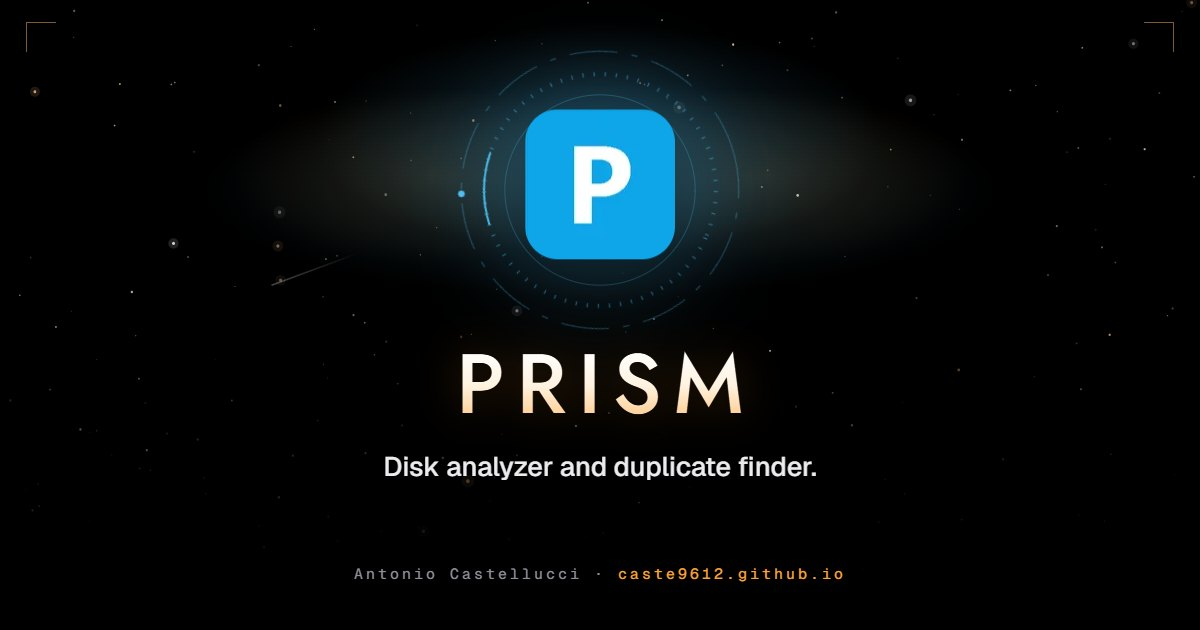
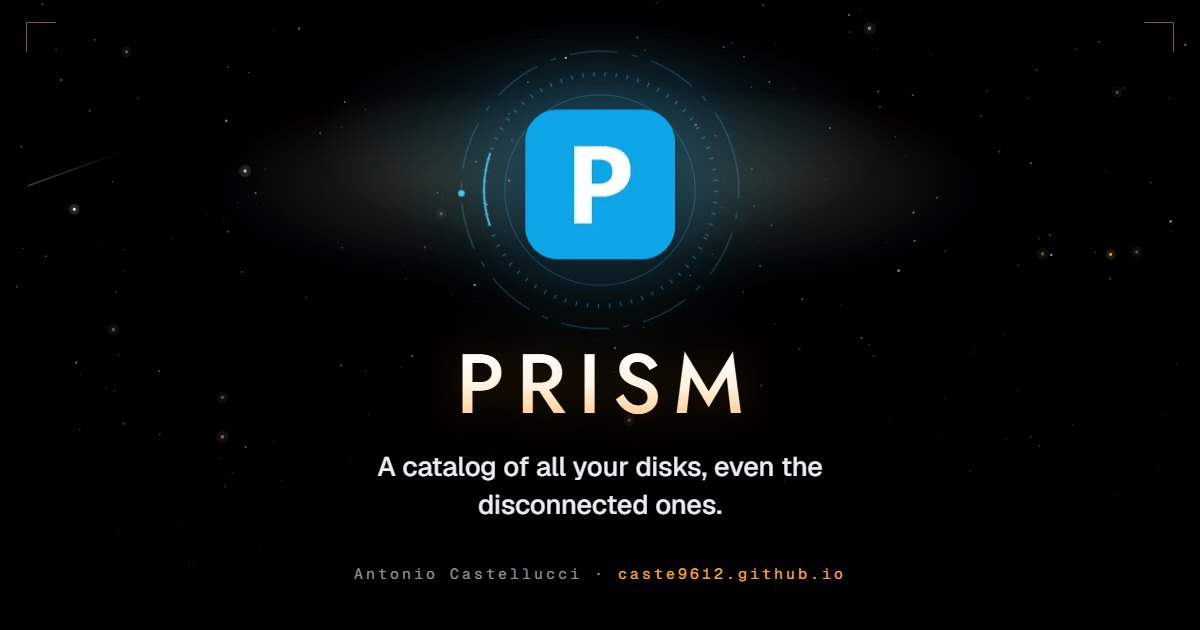
Prism 2.0: a catalog of all your disks
Prism's page follows the 2.0 release, rewritten from scratch: a catalog of
every disk, kept when the disk is unplugged and read through the NTFS Master
File Table, search with Ctrl+Space across all disks, space and cleanup,
exact and similar duplicates (photos and videos), backup checks with
verified copies and disk health from SMART. The requirements now say
installer for all users, run as administrator, start with Windows, signed
updates and the SmartScreen prompt; the details show the installer size.

The screenshots of 1.0.1 go, since that interface is gone; the ones of 2.0
come with Prism's README, which is being redrawn. The preview image of the
page has the new tagline, and scripts/og.mjs can now redraw single pages.
The README says where the demo data of every screenshot comes from.

Changed region(s): [[0.3083, 0.7238, 0.7092, 0.8143]]

diff --git a/src/data/projects.ts b/src/data/projects.ts
@@ -13,9 +13,6 @@ import pulseIcon from '../assets/projects/pulse/icon.png';
 import pulseDark from '../assets/projects/pulse/dark.webp';
 import pulseLight from '../assets/projects/pulse/light.webp';
 import prismIcon from '../assets/projects/prism/icon.png';
-import prismDashboard from '../assets/projects/prism/dashboard.webp';
-import prismSearch from '../assets/projects/prism/search.webp';
-import prismBackup from '../assets/projects/prism/backup.webp';
 import argusIcon from '../assets/projects/argus/icon.svg';
 import argusMetrics from '../assets/projects/argus/metrics.webp';
 import argusFlame from '../assets/projects/argus/flame.webp';
@@ -360,116 +357,95 @@ export const projects: Project[] = [
     color: '#4fc3f7',
     icon: prismIcon,
     squareIcon: true,
-    platform: { en: 'Windows', it: 'Windows' },
+    platform: { en: 'Windows 11', it: 'Windows 11' },
     downloadFor: { en: 'Windows', it: 'Windows' },
-    tagline: { en: 'Disk analyzer and duplicate finder.', it: 'Analisi dei dischi e ricerca dei duplicati.' },
-    short: { en: 'Disk analyzer', it: 'Analisi dei dischi' },
+    tagline: {
+      en: 'A catalog of all your disks, even the disconnected ones.',
+      it: 'Un catalogo di tutti i tuoi dischi, anche di quelli scollegati.',
+    },
+    short: { en: 'Disk catalog', it: 'Catalogo dei dischi' },
     need: {
-      en: 'Seeing where the space goes, and whether the backups are complete.',
-      it: 'Capire dove va lo spazio e se i backup sono completi.',
+      en: 'Finding files on disks that are not connected, and knowing what is on each one.',
+      it: "Ritrovare i file anche sui dischi scollegati, e sapere cosa c'è su ognuno.",
     },
     problem: {
-      en: "With many drives, local and on the network, I didn't know where the space went, which files were duplicates and whether a backup really held everything.",
-      it: 'Con molti dischi, locali e di rete, non sapevo dove finiva lo spazio, quali file erano doppi e se un backup conteneva davvero tutto.',
+      en: "With many drives, internal, external and on the network, I didn't know which one held a file, where the space went, which files were duplicates and whether a backup really held everything.",
+      it: 'Con molti dischi, interni, esterni e di rete, non sapevo quale contenesse un file, dove finiva lo spazio, quali file erano doppi e se un backup conteneva davvero tutto.',
     },
     solution: {
-      en: 'It indexes the drives once and then only what changes. It shows the space as a treemap, finds duplicates by content and compares a drive with its backup, listing what is missing.',
-      it: 'Indicizza i dischi una volta e poi solo i cambiamenti. Mostra lo spazio come treemap, trova i duplicati per contenuto e confronta un disco con il suo backup, elencando cosa manca.',
+      en: 'It keeps a catalog of every disk, searchable even when the disk is unplugged. On top of it, it shows the space, finds exact and similar duplicates, checks backups and watches the health of the disks.',
+      it: 'Tiene un catalogo di ogni disco, in cui si cerca anche quando il disco è scollegato. Sopra il catalogo mostra lo spazio, trova i duplicati identici e simili, verifica i backup e controlla la salute dei dischi.',
     },
     intro: {
-      en: 'Prism indexes local and network drives, finds duplicate files, shows space usage as a treemap and checks whether a backup drive contains everything.',
-      it: 'Prism indicizza dischi locali e di rete, trova i file duplicati, mostra lo spazio occupato come treemap e verifica se un disco di backup contiene tutto.',
+      en: 'Prism indexes every drive, internal, external, USB sticks and network shares, and keeps the catalog when the drive is unplugged. On top of the catalog it offers search as you type, space analysis, exact and similar duplicates, backup checks and disk health.',
+      it: "Prism indicizza ogni disco, interno, esterno, chiavetta USB o cartella di rete, e ne tiene il catalogo anche quando il disco è scollegato. Sopra il catalogo offre la ricerca mentre scrivi, l'analisi dello spazio, i duplicati identici e simili, la verifica dei backup e la salute dei dischi.",
     },
     features: [
       {
-        glyph: 'scan',
-        title: { en: 'Scanning', it: 'Scansione' },
+        glyph: 'drive',
+        title: { en: 'Catalog', it: 'Catalogo' },
         text: {
-          en: 'Parallel scanning of local and network drives; after the first pass only changed files are read again.',
-          it: 'Scansione in parallelo di dischi locali e di rete; dopo la prima passata vengono riletti solo i file cambiati.',
+          en: 'Every disk you connect is indexed in the background, NTFS volumes through the Master File Table: about a million files in a few seconds. Disconnected disks stay in the catalog, recognised even when their letter changes.',
+          it: 'Ogni disco collegato viene indicizzato in background, i volumi NTFS tramite la Master File Table: circa un milione di file in pochi secondi. I dischi scollegati restano nel catalogo, riconosciuti anche se cambiano lettera.',
         },
       },
       {
         glyph: 'search',
         title: { en: 'Search', it: 'Ricerca' },
         text: {
-          en: 'Full-text search over the index with filters for size, extension, type and path, also from a global shortcut (Ctrl+Space).',
-          it: "Ricerca nell'indice con filtri per dimensione, estensione, tipo e percorso, anche da una scorciatoia globale (Ctrl+Spazio).",
-        },
-      },
-      {
-        glyph: 'copy',
-        title: { en: 'Duplicates', it: 'Duplicati' },
-        text: {
-          en: 'Duplicate files found by content hash (BLAKE3) and similar images by perceptual hash, with the space wasted by each group.',
-          it: 'File duplicati trovati per hash del contenuto (BLAKE3) e immagini simili per hash percettivo, con lo spazio sprecato da ogni gruppo.',
+          en: 'Ctrl+Space from anywhere searches all the disks, connected or not, as you type, with filters for type, size, date and disk (report size:>1MB ext:pdf).',
+          it: 'Ctrl+Spazio da qualsiasi punto cerca in tutti i dischi, collegati o no, mentre scrivi, con filtri per tipo, dimensione, data e disco (report size:>1MB ext:pdf).',
         },
       },
       {
         glyph: 'treemap',
-        title: { en: 'Space usage', it: 'Spazio occupato' },
+        title: { en: 'Space and cleanup', it: 'Spazio e pulizia' },
         text: {
-          en: 'Folder tree and interactive treemap of the space in use, with the distribution by file type.',
-          it: 'Albero delle cartelle e treemap interattiva dello spazio occupato, con la distribuzione per tipo di file.',
+          en: 'A map of what takes space on a disk or folder, the largest files and statistics by type, also for disconnected disks, and from Explorer with Analyze with Prism. Space to recover is removed only after a confirmation.',
+          it: "Una mappa di cosa occupa spazio in un disco o in una cartella, i file più grandi e le statistiche per tipo, anche per i dischi scollegati, e da Explorer con Analyze with Prism. Lo spazio da recuperare si libera solo dopo una conferma.",
+        },
+      },
+      {
+        glyph: 'copy',
+        title: { en: 'Duplicates and similar', it: 'Duplicati e simili' },
+        text: {
+          en: 'Identical files across all the disks, found by content in the background at low priority, and photos and videos that look the same even when resized or re-encoded. Copies go to the Recycle Bin, after a check that they have not changed.',
+          it: 'File identici in tutti i dischi, trovati per contenuto in background a bassa priorità, e foto e video che si somigliano anche se ridimensionati o ricodificati. Le copie vanno nel Cestino, dopo un controllo che non siano cambiate.',
         },
       },
       {
         glyph: 'shield',
-        title: { en: 'Backup check', it: 'Verifica dei backup' },
+        title: { en: 'Backup', it: 'Backup' },
         text: {
-          en: 'Checks whether every file on one drive is also on another, and lists what is missing grouped by folder.',
-          it: 'Controlla se ogni file di un disco si trova anche su un altro ed elenca quelli mancanti raggruppati per cartella.',
+          en: 'Checks that the files of a disk or folder have a copy somewhere else, compares two disks or folders and copies what is missing, reading every copy back to verify it.',
+          it: "Verifica che i file di un disco o di una cartella abbiano una copia altrove, confronta due dischi o cartelle e copia ciò che manca, rileggendo ogni copia per verificarla.",
         },
       },
       {
-        glyph: 'drive',
-        title: { en: 'Drive monitor', it: 'Controllo dei dischi' },
+        glyph: 'chart',
+        title: { en: 'Disk health', it: 'Salute dei dischi' },
         text: {
-          en: 'Notices when drives go online or offline and queues the known ones for a new scan when they come back.',
-          it: 'Si accorge quando i dischi si collegano o si scollegano e rimette in coda per la scansione quelli già noti quando tornano.',
+          en: 'The SMART data of the disks, temperature, wear and errors, with their history and a notice when a disk gets worse.',
+          it: 'I dati SMART dei dischi, temperatura, usura ed errori, con il loro storico e un avviso quando un disco peggiora.',
         },
       },
     ],
     requirements: [
       {
-        en: 'Windows. Prism is portable: download Prism.exe and run it, no installation needed.',
-        it: 'Windows. Prism è portatile: si scarica Prism.exe e si avvia, senza installazione.',
+        en: 'Windows 11, 64-bit, installed for all users. Prism runs as administrator, to read the Master File Table and the change journal of NTFS disks and their health data, and starts with Windows in the notification area; this can be turned off in Settings. The installer is not code-signed yet, so Windows SmartScreen asks for a confirmation.',
+        it: "Windows 11 a 64 bit, installato per tutti gli utenti. Prism gira come amministratore, per leggere la Master File Table e il journal dei dischi NTFS e i loro dati di salute, e parte con Windows nell'area di notifica; si può disattivare nelle impostazioni. L'installer non è ancora firmato, quindi Windows SmartScreen chiede una conferma.",
       },
       {
-        en: "The index is kept in a local SQLite database in the user's application data.",
-        it: "L'indice è salvato in un database SQLite locale, nei dati dell'applicazione dell'utente.",
+        en: 'New versions are downloaded in the background, checked against their signature and installed only when you choose. No telemetry: the catalog stays on your PC. The interface is in English and Italian, with a light and a dark theme.',
+        it: "Le versioni nuove si scaricano in background, vengono verificate con la loro firma e si installano solo quando lo scegli. Nessuna telemetria: il catalogo resta sul tuo PC. L'interfaccia è in inglese e in italiano, con un tema chiaro e uno scuro.",
       },
     ],
-    stack: ['Rust', 'Tauri 2', 'SvelteKit', 'TypeScript', 'SQLite FTS5', 'D3.js', 'BLAKE3'],
+    stack: ['Rust', 'Tauri 2', 'Svelte 5', 'TypeScript', 'SQLite', 'BLAKE3', 'NTFS MFT and USN', 'Media Foundation'],
     statedLicense: 'MIT',
-    shots: [
-      {
-        src: prismDashboard,
-        caption: { en: 'Dashboard', it: 'Pannello principale' },
-        alt: {
-          en: "Prism's dashboard with the indexed drives and the scan progress",
-          it: "Il pannello di Prism con i dischi indicizzati e l'avanzamento della scansione",
-        },
-      },
-      {
-        src: prismSearch,
-        caption: { en: 'Quick search', it: 'Ricerca rapida' },
-        alt: {
-          en: "Prism's quick search with file type filters",
-          it: 'La ricerca rapida di Prism con i filtri per tipo di file',
-        },
-      },
-      {
-        src: prismBackup,
-        caption: { en: 'Backup check', it: 'Verifica dei backup' },
-        alt: {
-          en: 'Prism checking whether a backup drive contains every file',
-          it: 'Prism che verifica se un disco di backup contiene tutti i file',
-        },
-      },
-    ],
+    // the screenshots of Prism 2.0 are being redrawn: they come back with its README
+    shots: [],
     shotFit: 'contain',
-    tiles: [{ k: 'platform' }, { k: 'downloadSize', asset: /\.exe$/i }, { k: 'installation', v: 'notNeeded' }, { k: 'license' }],
+    tiles: [{ k: 'platform' }, { k: 'installer', asset: /x64-setup\.exe$/i }, { k: 'releases' }, { k: 'license' }],
   },
   {
     slug: 'argus',

diff --git a/README.md b/README.md
@@ -30,11 +30,14 @@ npm run check          # type check
 
 ## Screenshots
 
-Some screenshots have parts blurred before being added to `src/assets/`:
+The screenshots show demo data, never personal or work data:
 
-- Pulse: the public IP address.
-- Orbit, Activity view: names of other projects and the text of the prompts.
-- Prism, backup check: the names of the missing files.
+- Orbit: an isolated build on public repositories cloned to a drive letter (no user name in the paths),
+  with real Claude Code chats and, for Activity, transcripts built from the real commits.
+- Inlay: the app's own preview mode on a demo vault.
+- Cove: a clone with only the built-in sounds.
+- Prism: the screenshots of its README, from the simulated backend of its interface.
+- Pulse: the public IP address is blurred.
 
 When a screenshot is replaced, check it for personal or work data before adding it.
 
